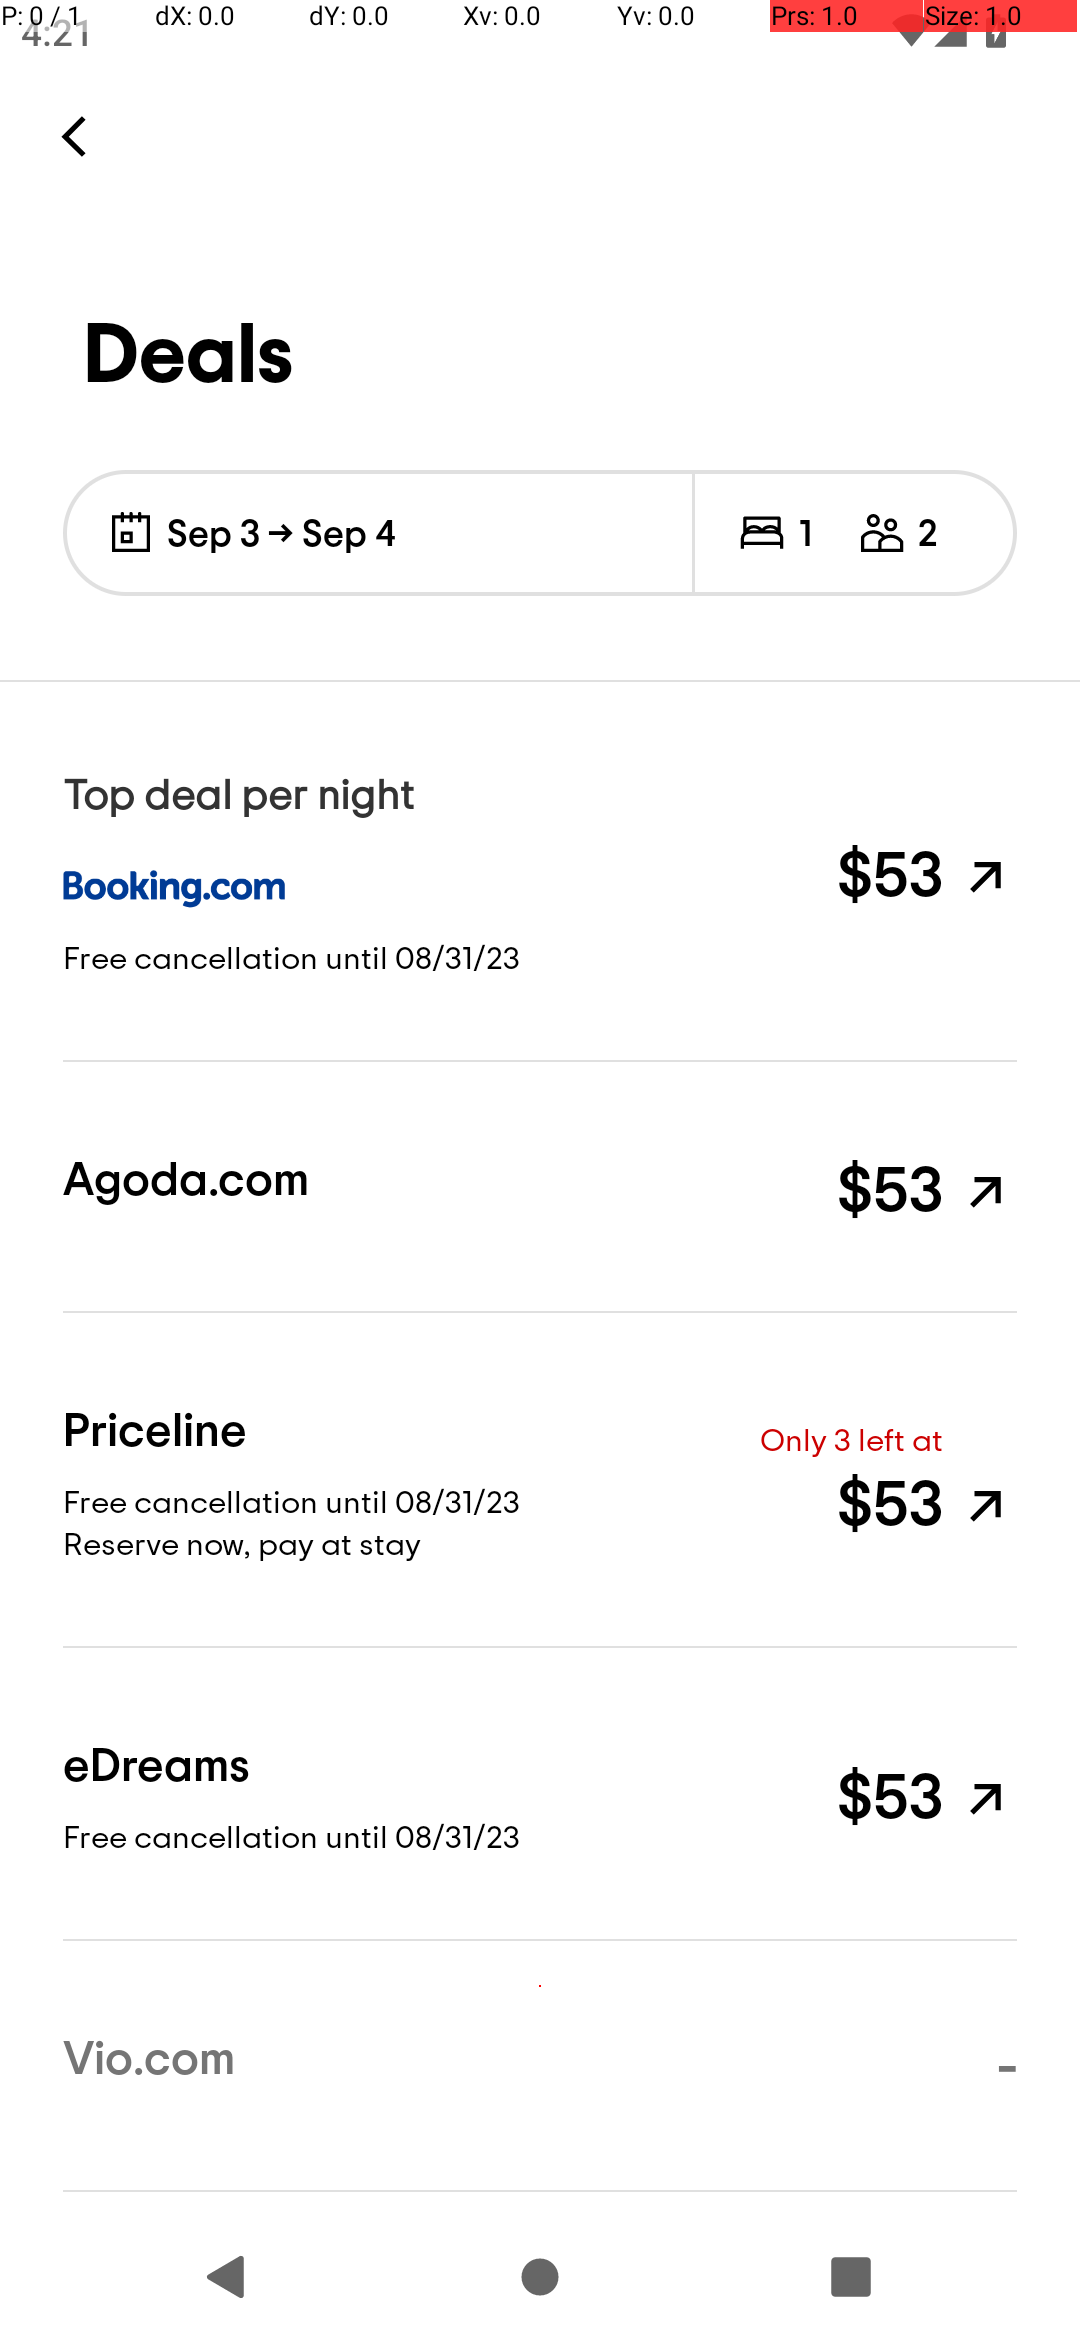
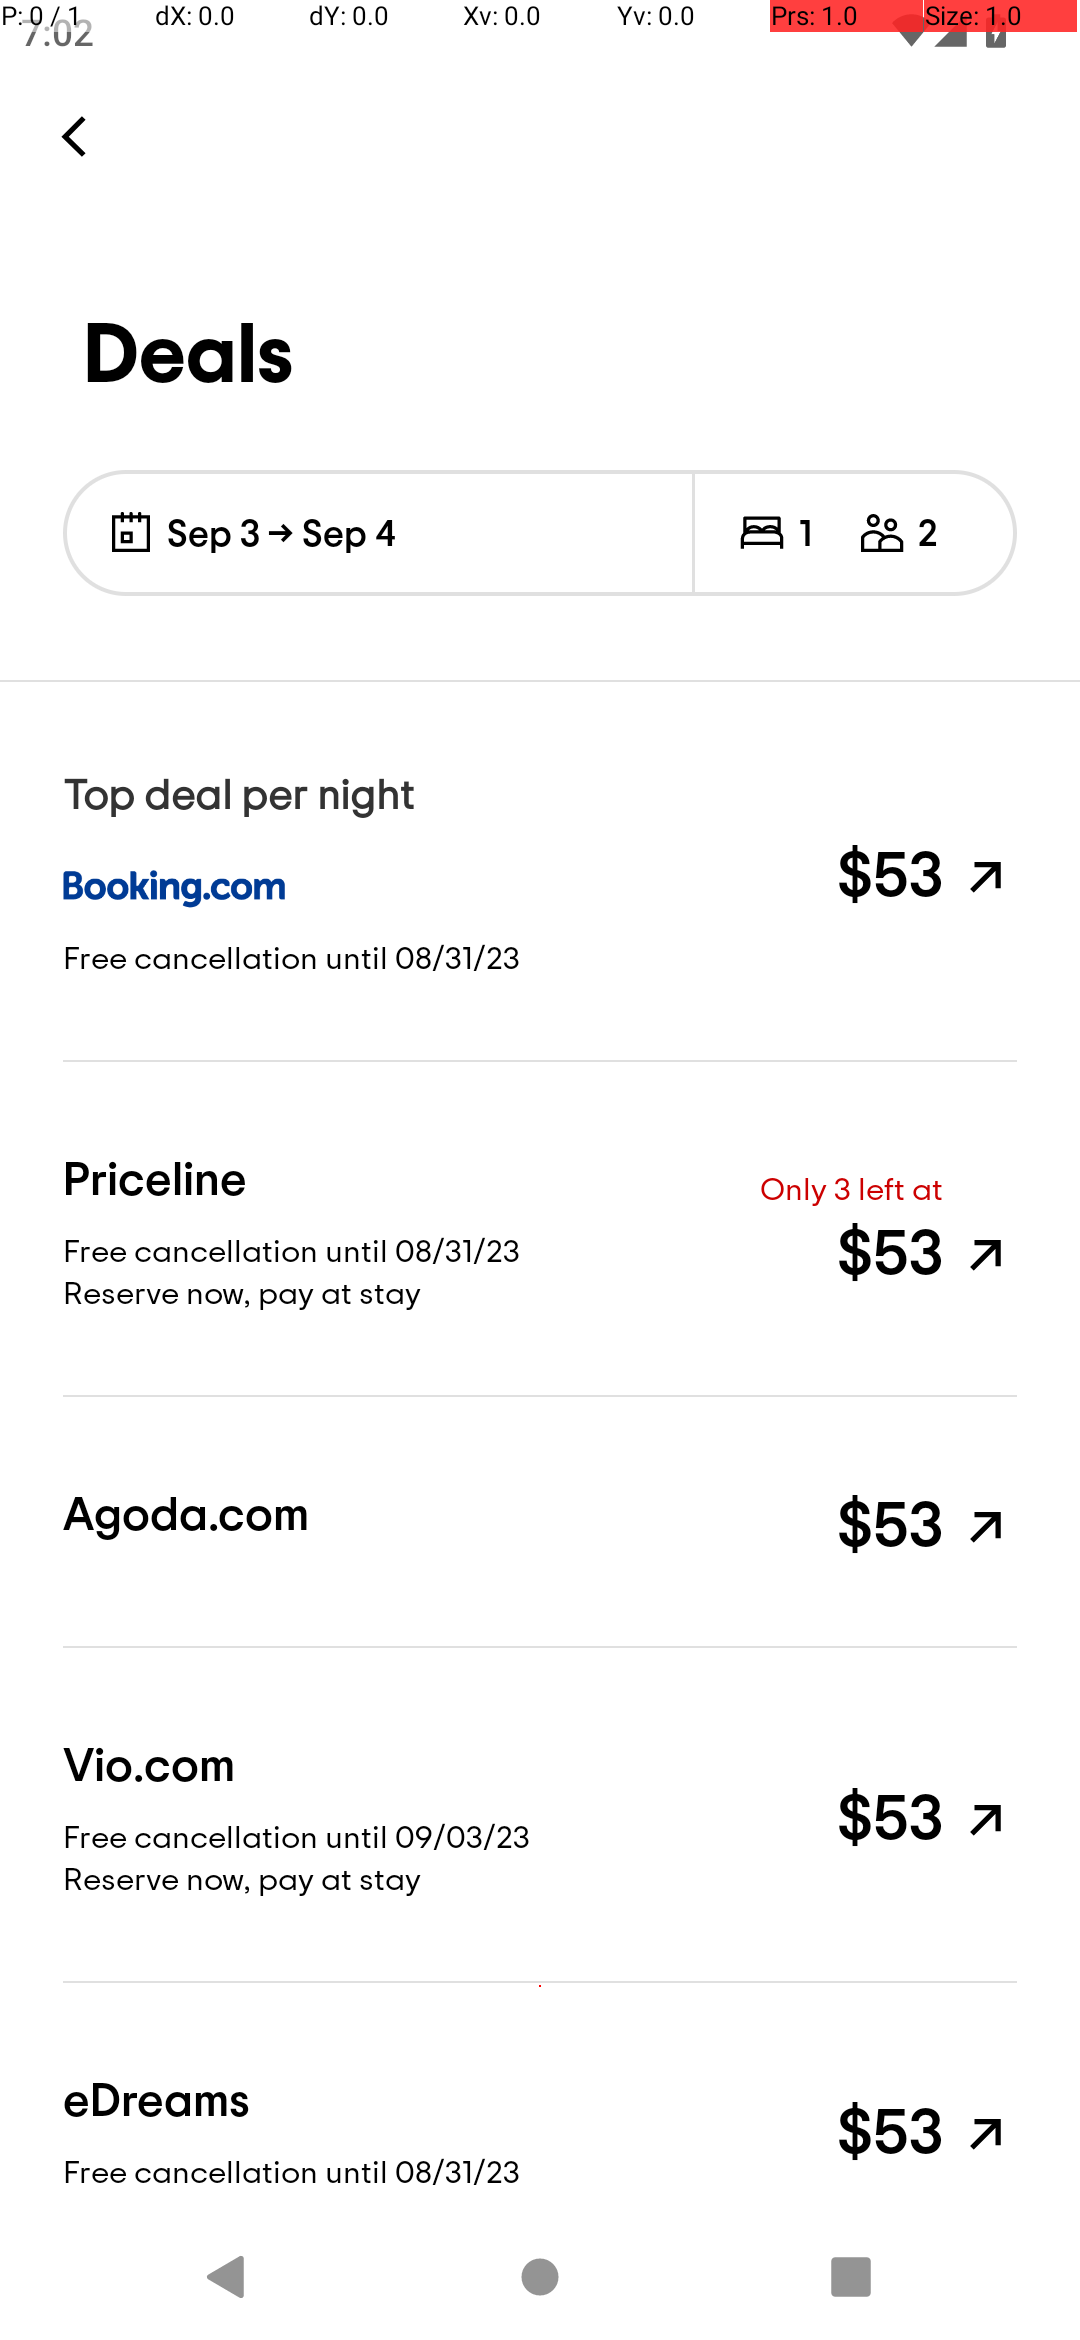
refactoring; update get_prices_by_providers to scroll up untill finished page

diff --git a/app_testing/trip_advisor_test.py b/app_testing/trip_advisor_test.py
@@ -1,7 +1,6 @@
 import json
 import os
 from typing import Optional
-from datetime import datetime
 
 from appium.webdriver import WebElement
 from appium.webdriver.appium_service import AppiumService
@@ -11,7 +10,11 @@ from appium import webdriver
 import time
 
 from appium.webdriver.common.touch_action import TouchAction
-from selenium.common import NoSuchElementException
+from selenium.common import NoSuchElementException, TimeoutException
+from selenium.webdriver import ActionChains
+from selenium.webdriver.common.actions import interaction
+from selenium.webdriver.common.actions.action_builder import ActionBuilder
+from selenium.webdriver.common.actions.pointer_input import PointerInput
 from selenium.webdriver.support import expected_conditions as EC
 from selenium.webdriver.support.wait import WebDriverWait
 
@@ -31,8 +34,7 @@ class TripAdvisorTest:
         self.driver = None
         self.input_dates = input_dates
         self.hotel_name = hotel_name
-        self.dates_to_search = []
-        self.format_dates()
+        self.dates_to_search = DateHelper.format_dates(input_dates=self.input_dates)
 
     def start_appium_service(self):
         self.appium_service = AppiumService()
@@ -45,8 +47,7 @@ class TripAdvisorTest:
             "deviceName": device_name,
             "appPackage": "com.tripadvisor.tripadvisor",
             "appActivity": "com.tripadvisor.android.ui.launcher.LauncherActivity",
-            'automationName': 'UiAutomator2',
-            "noReload": True
+            "automationName": "UiAutomator2"
         }
         try:
             appium_server_url = "http://localhost:4723"
@@ -99,11 +100,11 @@ class TripAdvisorTest:
         )
         get_dates_button.click()
 
-    def scroll_up(self):
+    def scroll_calendar_up(self):
         action = TouchAction(self.driver)
         action.press(x=500, y=1988).move_to(x=500, y=1266).release().perform()
 
-    def scroll_down(self):
+    def scroll_calendar_down(self):
         action = TouchAction(self.driver)
         action.press(x=300, y=1250).move_to(x=300, y=2000).release().perform()
 
@@ -135,47 +136,57 @@ class TripAdvisorTest:
         except NoSuchElementException:
             return None
 
-    def find_month_container_by_date(self, date_text):
-        container_id = 1
+    @staticmethod
+    def __find_date_element(month_container: WebElement, month_year: str) -> WebElement:
+        date_element = month_container.find_element(
+            AppiumBy.XPATH, f".//android.widget.TextView[@text='{month_year}']"
+        )
+        return date_element
+
+    def __find_month_container(self, container_id: int) -> Optional[WebElement]:
+        month_container = self.__find_element_or_none(
+            AppiumBy.XPATH,
+            f"(//android.view.ViewGroup[@resource-id='com.tripadvisor.tripadvisor:id/monthView'])[{container_id}]"
+        )
+        return month_container
+
+    def __find_current_month_container(self, container_id) -> None:
         current_month_year = DateHelper.get_current_month_and_year()
         while True:
-            current_month_container = self.__find_element_or_none(
-                AppiumBy.XPATH,
-                f"(//android.view.ViewGroup[@resource-id='com.tripadvisor.tripadvisor:id/monthView'])[{container_id}]"
-            )
+            current_month_container = self.__find_month_container(container_id=container_id)
             if current_month_container is None:
-                self.scroll_down()
+                print("Scrolled down -- current month container is not found")
+                self.scroll_calendar_down()
                 continue
             try:
-                date_element = current_month_container.find_element(
-                    AppiumBy.XPATH, f".//android.widget.TextView[@text='{current_month_year}']"
-                )
+                self.__find_date_element(month_container=current_month_container, month_year=current_month_year)
                 break
             except NoSuchElementException:
-                self.scroll_down()
+                print("Scrolled down -- current date element is not found in month container")
+                self.scroll_calendar_down()
                 time.sleep(4)
 
+    def find_month_container_by_date(self, month_year) -> WebElement:
+        container_id = 1
+        self.__find_current_month_container(container_id=container_id)
+
         while True:
-            month_container = self.__find_element_or_none(
-                AppiumBy.XPATH,
-                f"(//android.view.ViewGroup[@resource-id='com.tripadvisor.tripadvisor:id/monthView'])[{container_id}]"
-            )
+            month_container = self.__find_month_container(container_id=container_id)
             if month_container is None:
-                self.scroll_up()
+                print("Scrolled up -- month container is not found")
+                self.scroll_calendar_up()
                 time.sleep(2)
                 container_id += 1
-
             try:
-                date_element = month_container.find_element(
-                    AppiumBy.XPATH, f".//android.widget.TextView[@text='{date_text}']"
-                )
+                self.__find_date_element(month_container=month_container, month_year=month_year)
                 return month_container
             except NoSuchElementException:
-                self.scroll_up()
+                print("Scrolled up -- date element is not found in month container")
+                self.scroll_calendar_up()
                 time.sleep(2)
                 container_id += 1
 
-    def click_date(self, date_text, integer_text):
+    def click_date(self, date_text, integer_text) -> None:
         while True:
             month_container = self.find_month_container_by_date(date_text)
 
@@ -189,9 +200,10 @@ class TripAdvisorTest:
                 integer_element.click()
                 return
             else:
-                self.scroll_up()
+                print("scrolled up - integer_element is not found")
+                self.scroll_calendar_up()
 
-    def __check_input_dates(self, dates: list[tuple[str, str]]):
+    def __check_input_dates(self, dates: list[tuple[str, str]]) -> Optional[True]:
         if len(dates) != 2:
             self.driver.quit()
             self.appium_service.stop()
@@ -216,57 +228,71 @@ class TripAdvisorTest:
     def click_view_all_deals(self):
         while True:
             try:
-                time.sleep(10)
-                self.driver.find_element(AppiumBy.ID, "com.tripadvisor.tripadvisor:id/btnAllDeals").click()
-                time.sleep(5)
+                view_all_deals_button = WebDriverWait(self.driver, 10).until(
+                    EC.element_to_be_clickable((AppiumBy.ID, "com.tripadvisor.tripadvisor:id/btnAllDeals"))
+                )
+                view_all_deals_button.click()
+                time.sleep(3)
                 break
-            except NoSuchElementException:
+            except TimeoutException:
                 self.driver.find_element(AppiumBy.ID, "com.tripadvisor.tripadvisor:id/btnReload").click()
 
-    def get_prices_by_providers(self) -> dict[str, int | str]:
-        prices_by_provides = {}
+    def __scroll_deals_page_up(self):
+        actions = ActionChains(self.driver)
+        actions.w3c_actions = ActionBuilder(self.driver, mouse=PointerInput(interaction.POINTER_TOUCH, "touch"))
+        actions.w3c_actions.pointer_action.move_to_location(516, 2084)
+        actions.w3c_actions.pointer_action.pointer_down()
+        actions.w3c_actions.pointer_action.move_to_location(516, 837)
+        actions.w3c_actions.pointer_action.release()
+        actions.perform()
+
+    def __get_top_deal(self) -> tuple[str, int]:
+        top_deal_provider = self.driver.find_element(
+            AppiumBy.ID, "com.tripadvisor.tripadvisor:id/imgProviderLogo"
+        )
+        top_deal_price_xpath = \
+            "(//androidx.recyclerview.widget.RecyclerView/androidx.cardview.widget.CardView)[1]//android.widget.TextView[contains(@resource-id, 'txtPriceTopDeal')]"
+        top_deal_price = WebDriverWait(self.driver, 30).until(
+            EC.visibility_of_element_located((AppiumBy.XPATH, top_deal_price_xpath))
+        )
+        return top_deal_provider.get_attribute("content-desc"), int(top_deal_price.text.replace("$", ""))
+
+    def __get_providers_and_prices(self) -> tuple[list[WebElement], list[WebElement]]:
         providers = self.driver.find_elements(
             AppiumBy.XPATH, "//android.widget.TextView[@resource-id='com.tripadvisor.tripadvisor:id/txtProviderName']"
         )
         prices = self.driver.find_elements(
             AppiumBy.XPATH, "//android.widget.TextView[@resource-id='com.tripadvisor.tripadvisor:id/txtPriceTopDeal']"
         )
-        top_deal_provider = self.driver.find_element(
-            AppiumBy.ID, "com.tripadvisor.tripadvisor:id/imgProviderLogo"
-        )
+        if len(providers) > len(prices):
+            delta = len(providers) - len(prices)
+            providers = providers[:-delta]
+        return providers, prices
 
-        top_deal_price_xpath = \
-            "(//androidx.recyclerview.widget.RecyclerView/androidx.cardview.widget.CardView)[1]//android.widget.TextView[contains(@resource-id, 'txtPriceTopDeal')]"
+    def __check_deals_page_if_is_finished(self) -> Optional[WebElement]:
+        try:
+            finish_element = self.driver.find_element(AppiumBy.ID, "com.tripadvisor.tripadvisor:id/txtContent")
+            return finish_element
+        except NoSuchElementException:
+            return None
 
-        top_deal_price = WebDriverWait(self.driver, 30).until(
-            EC.visibility_of_element_located((AppiumBy.XPATH, top_deal_price_xpath))
-        )
-
-        prices_by_provides[top_deal_provider.get_attribute("content-desc")] = int(top_deal_price.text.replace("$", ""))
-
-        for provider, price in zip(providers, prices):
-            provider_name = provider.text
-            price = price.text
-            prices_by_provides[provider_name] = int(price.replace("$", ""))
-        return prices_by_provides
+    def get_prices_by_providers(self) -> dict[str, str | int]:
+        top_deal_provider, top_deal_price = self.__get_top_deal()
+        prices_by_providers = {top_deal_provider: top_deal_price}
+        while True:
+            providers, prices = self.__get_providers_and_prices()
+            for provider, price in zip(providers, prices):
+                print(f"{provider=}: {price=}")
+                prices_by_providers[provider.text] = int(price.text.replace("$", ""))
+            if self.__check_deals_page_if_is_finished():
+                return prices_by_providers
+            else:
+                self.__scroll_deals_page_up()
+                time.sleep(2)
 
     def return_to_main_hotel_page(self):
         self.driver.find_element(AppiumBy.ID, "com.tripadvisor.tripadvisor:id/imgCircularBtnIcon").click()
         time.sleep(2)
-
-    def format_dates(self) -> list[list[tuple[str, str]]]:
-        for start_date, end_date in self.input_dates:
-            start_date_obj = datetime.strptime(start_date, "%Y-%m-%d")
-            end_date_obj = datetime.strptime(end_date, "%Y-%m-%d")
-
-            month = start_date_obj.strftime("%B %Y")
-
-            start_day = start_date_obj.strftime("%d").lstrip("0")
-            end_day = end_date_obj.strftime("%d").lstrip("0")
-
-            self.dates_to_search.append([(month, start_day), (month, end_day)])
-
-        return self.dates_to_search
 
     def save_screenshot(self, dates: str):
         screenshots_directory = "C:\\Users\\aooli\\PycharmProjects\\TestTaskAndroid\\app_testing\\screenshots"
@@ -285,7 +311,6 @@ class TripAdvisorTest:
             json.dump({self.hotel_name: data}, json_file, indent=2)
 
     def run_test(self):
-        prices_data = {}
         self.start_appium_service()
         self.start_driver()
         self.open_tripadvisor()
@@ -306,9 +331,7 @@ class TripAdvisorTest:
 
             self.return_to_main_hotel_page()
 
-        prices_data[self.hotel_name] = hotel_data
-
-        self.save_to_json(prices_data)
+        self.save_to_json(hotel_data)
         self.driver.quit()
         self.appium_service.stop()
 

diff --git a/app_testing/date_helper.py b/app_testing/date_helper.py
@@ -3,6 +3,22 @@ from datetime import datetime
 
 class DateHelper:
     @staticmethod
+    def format_dates(input_dates: list[tuple[str, str]]) -> list[list[tuple[str, str]]]:
+        dates_to_search = []
+        for start_date, end_date in input_dates:
+            start_date_obj = datetime.strptime(start_date, "%Y-%m-%d")
+            end_date_obj = datetime.strptime(end_date, "%Y-%m-%d")
+
+            month = start_date_obj.strftime("%B %Y")
+
+            start_day = start_date_obj.strftime("%d").lstrip("0")
+            end_day = end_date_obj.strftime("%d").lstrip("0")
+
+            dates_to_search.append([(month, start_day), (month, end_day)])
+
+        return dates_to_search
+
+    @staticmethod
     def get_current_month_and_year() -> str:
         now = datetime.now()
         month_name = now.strftime("%B")
